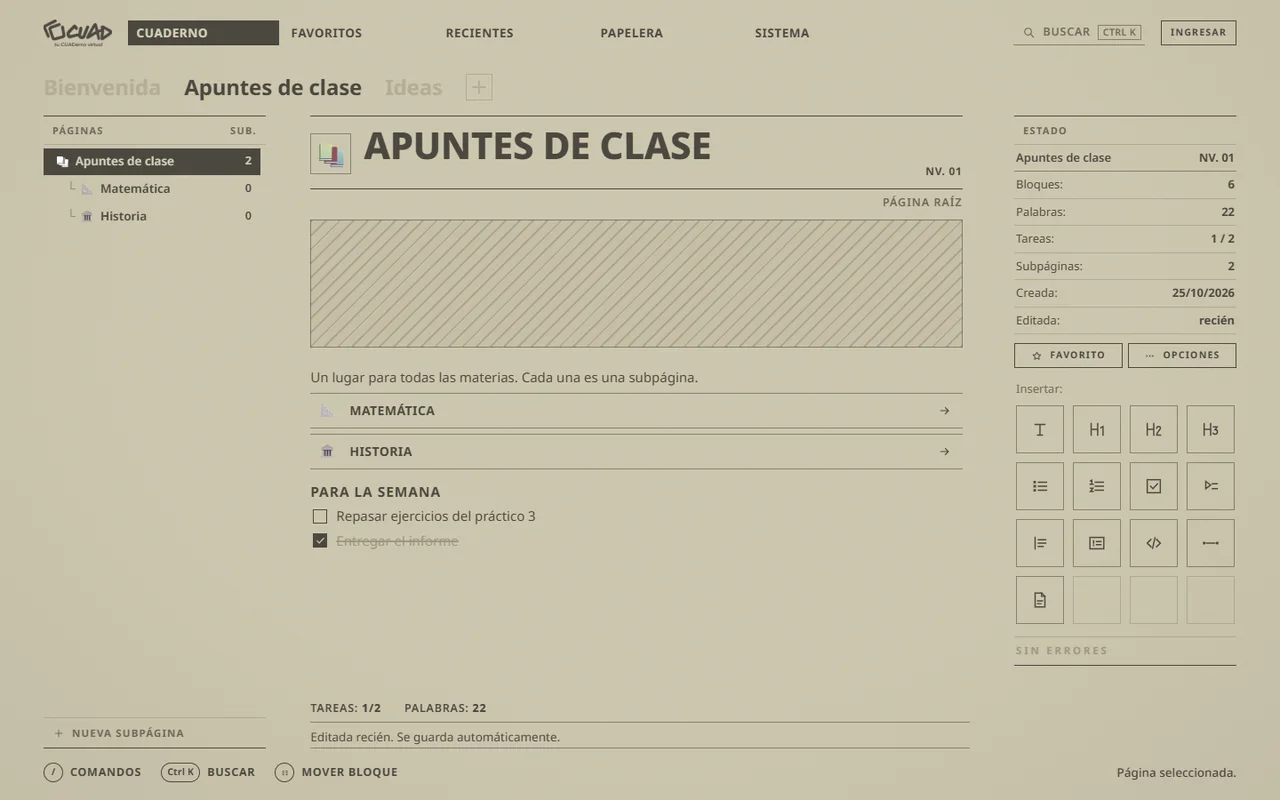
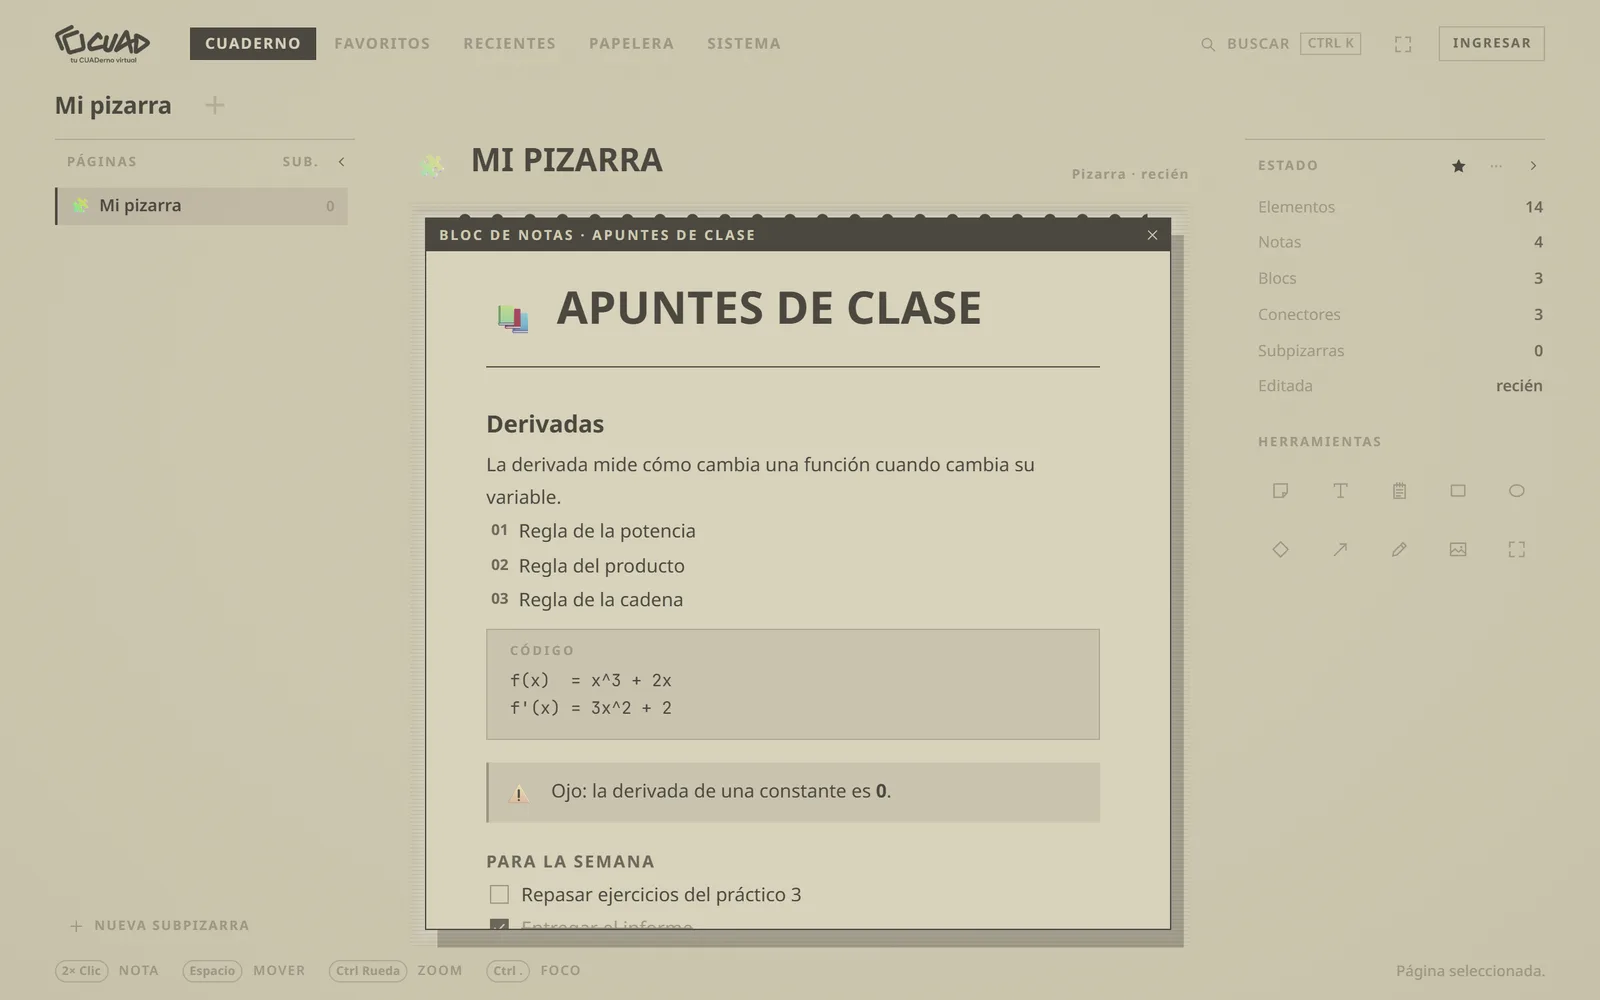
Refresh CUAD with its new whiteboard
New screenshots of the board and an open notepad, and the copy in all
four languages now describes the board: notes, shapes, connectors,
pencil and notepads that open for longer writing.

diff --git a/src/i18n.tsx b/src/i18n.tsx
@@ -24,7 +24,7 @@ const es = {
     prev: 'Novedad anterior',
     next: 'Novedad siguiente',
     items: {
-      cuad: { text: 'Mi cuaderno virtual de páginas y bloques', note: 'En desarrollo' },
+      cuad: { text: 'Mi cuaderno virtual, ahora una pizarra infinita', note: 'En desarrollo' },
       enjambre: { text: 'Drones en red para emergencias, nuestro proyecto para el rally internacional', note: 'Proyecto en equipo' },
       may: { text: 'Mi editor de videos argentino, gratis y sin cuenta', note: 'En desarrollo' },
       desfile: { text: 'Bandas, granaderos y uniformes en la calle', note: 'Álbum nuevo' },
@@ -106,9 +106,9 @@ const es = {
     },
     cuad: {
       kind: 'Cuaderno virtual · App web',
-      lead: 'Mi cuaderno virtual, en la línea de Notion: páginas y bloques para tomar apuntes, ordenar ideas y llevar tareas, a tu estilo.',
-      text: 'Cada página tiene portada, subpáginas y bloques de texto, títulos, listas, tareas, desplegables, citas y código. Se insertan escribiendo / o desde el panel de estado, se reordenan arrastrando y todo se guarda solo mientras escribís.',
-      points: ['Bloques con atajos tipo Markdown y comandos con /', 'Subpáginas, favoritos, recientes y papelera', 'Búsqueda rápida con Ctrl + K', 'Panel de estado con bloques, palabras y tareas'],
+      lead: 'Mi cuaderno virtual, ahora como una pizarra infinita: notas, formas, flechas y blocs de notas sueltos, para ordenar ideas sin orden obligatorio.',
+      text: 'Doble clic en cualquier lugar deja una nota. Los blocs de notas viven en la pizarra y se abren para escribir largo, con títulos, listas, tareas, citas y código. Se conectan cosas con flechas, se dibuja a mano alzada, se pegan imágenes y todo se guarda solo.',
+      points: ['Notas, textos, formas, conectores y lápiz', 'Blocs de notas con bloques y comandos con /', 'Zoom, modo foco y subpizarras', 'Panel de estado con elementos, notas y blocs'],
       cta: 'Probar CUAD',
       barNotes: 'CUAD · Apuntes de clase',
     },
@@ -221,7 +221,7 @@ const en: Messages = {
     prev: 'Previous news',
     next: 'Next news',
     items: {
-      cuad: { text: 'My virtual notebook of pages and blocks', note: 'In progress' },
+      cuad: { text: 'My virtual notebook, now an endless whiteboard', note: 'In progress' },
       enjambre: { text: 'Networked drones for emergencies, our project for the international rally', note: 'Team project' },
       may: { text: 'My Argentine video editor, free and with no account', note: 'In progress' },
       desfile: { text: 'Bands, grenadiers and uniforms on the street', note: 'New album' },
@@ -303,9 +303,9 @@ const en: Messages = {
     },
     cuad: {
       kind: 'Virtual notebook · Web app',
-      lead: 'My virtual notebook, in the spirit of Notion: pages and blocks to take notes, sort out ideas and keep track of tasks, your way.',
-      text: 'Each page has a cover, subpages and blocks for text, headings, lists, to-dos, toggles, quotes and code. You insert them by typing / or from the status panel, reorder them by dragging, and everything saves itself as you type.',
-      points: ['Blocks with Markdown-style shortcuts and / commands', 'Subpages, favourites, recents and trash', 'Quick search with Ctrl + K', 'Status panel with blocks, words and tasks'],
+      lead: 'My virtual notebook, now an endless whiteboard: notes, shapes, arrows and loose notepads to sort out ideas with no set order.',
+      text: 'Double-click anywhere to leave a note. Notepads live on the board and open up for longer writing, with headings, lists, to-dos, quotes and code. You link things with arrows, draw freehand, paste images, and everything saves itself.',
+      points: ['Notes, text, shapes, connectors and a pencil', 'Notepads with blocks and / commands', 'Zoom, focus mode and sub-boards', 'Status panel with items, notes and notepads'],
       cta: 'Try CUAD',
       barNotes: 'CUAD · Class notes',
     },
@@ -416,7 +416,7 @@ const pt: Messages = {
     prev: 'Novidade anterior',
     next: 'Próxima novidade',
     items: {
-      cuad: { text: 'Meu caderno virtual de páginas e blocos', note: 'Em desenvolvimento' },
+      cuad: { text: 'Meu caderno virtual, agora um quadro infinito', note: 'Em desenvolvimento' },
       enjambre: { text: 'Drones em rede para emergências, nosso projeto para o rally internacional', note: 'Projeto em equipe' },
       may: { text: 'Meu editor de vídeo argentino, grátis e sem conta', note: 'Em desenvolvimento' },
       desfile: { text: 'Bandas, granadeiros e uniformes na rua', note: 'Álbum novo' },
@@ -498,9 +498,9 @@ const pt: Messages = {
     },
     cuad: {
       kind: 'Caderno virtual · App web',
-      lead: 'Meu caderno virtual, na linha do Notion: páginas e blocos para fazer anotações, organizar ideias e acompanhar tarefas, do seu jeito.',
-      text: 'Cada página tem capa, subpáginas e blocos de texto, títulos, listas, tarefas, recolhíveis, citações e código. Eles são inseridos digitando / ou pelo painel de status, reordenados arrastando, e tudo é salvo sozinho enquanto você escreve.',
-      points: ['Blocos com atalhos estilo Markdown e comandos com /', 'Subpáginas, favoritos, recentes e lixeira', 'Busca rápida com Ctrl + K', 'Painel de status com blocos, palavras e tarefas'],
+      lead: 'Meu caderno virtual, agora um quadro infinito: notas, formas, setas e blocos de notas soltos para organizar ideias sem ordem obrigatória.',
+      text: 'Clique duas vezes em qualquer lugar para deixar uma nota. Os blocos de notas vivem no quadro e se abrem para escrever mais, com títulos, listas, tarefas, citações e código. Dá para ligar coisas com setas, desenhar à mão livre, colar imagens, e tudo é salvo sozinho.',
+      points: ['Notas, textos, formas, conectores e lápis', 'Blocos de notas com blocos e comandos com /', 'Zoom, modo foco e subquadros', 'Painel de status com elementos, notas e blocos'],
       cta: 'Experimentar CUAD',
       barNotes: 'CUAD · Anotações de aula',
     },
@@ -611,7 +611,7 @@ const zh: Messages = {
     prev: '上一条动态',
     next: '下一条动态',
     items: {
-      cuad: { text: '我的页面与块式虚拟笔记本', note: '开发中' },
+      cuad: { text: '我的虚拟笔记本，现在是一块无限白板', note: '开发中' },
       enjambre: { text: '用于应急救援的联网无人机，我们参加国际创新拉力赛的项目', note: '团队项目' },
       may: { text: '我做的阿根廷视频编辑器，免费、无需注册', note: '开发中' },
       desfile: { text: '街头的乐队、掷弹兵和制服', note: '新相册' },
@@ -693,9 +693,9 @@ const zh: Messages = {
     },
     cuad: {
       kind: '虚拟笔记本 · 网页应用',
-      lead: '我的虚拟笔记本，类似 Notion：用页面和块来记笔记、整理想法、管理任务，按你自己的方式。',
-      text: '每个页面都有封面、子页面，以及文本、标题、列表、待办、折叠、引用和代码块。输入 / 或从状态面板插入，拖动即可重新排序，输入时自动保存。',
-      points: ['支持 Markdown 风格快捷键和 / 命令的块', '子页面、收藏、最近和回收站', '使用 Ctrl + K 快速搜索', '显示块、字数和任务的状态面板'],
+      lead: '我的虚拟笔记本，现在是一块无限白板：便签、形状、箭头和独立的记事本，随心整理想法，没有固定顺序。',
+      text: '在任意空白处双击即可留下便签。记事本放在白板上，打开后可以写长文，支持标题、列表、待办、引用和代码。用箭头连接内容、手绘、粘贴图片，一切自动保存。',
+      points: ['便签、文本、形状、连接线和画笔', '支持块和 / 命令的记事本', '缩放、专注模式和子白板', '显示元素、便签和记事本的状态面板'],
       cta: '试用 CUAD',
       barNotes: 'CUAD · 课堂笔记',
     },
